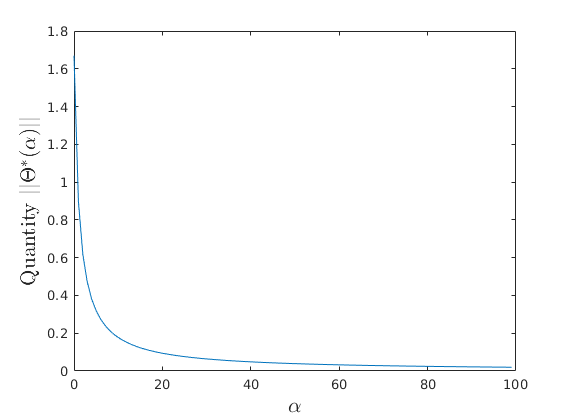
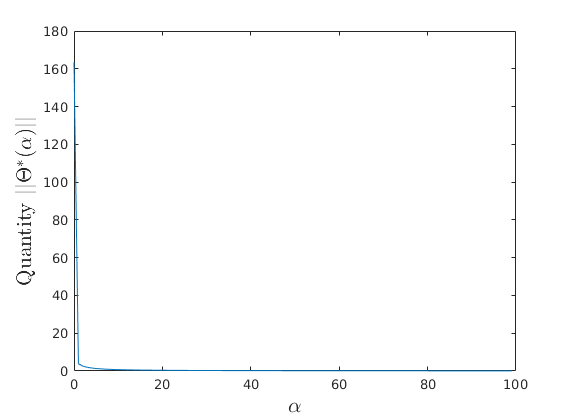
typo

diff --git a/HW2/script/problem4.m b/HW2/script/problem4.m
@@ -1,23 +1,26 @@
 clear;clc;
-n = 10
-p = 8
+n = randi([1,100],1);
+m = randi([1,100],1);
+% n = 10;
+% p = 8;
 X = zeros(n,p);
 cMatrix = eye(n);
-a = 2;
+
 for i = 1:p
     noiseVec = randn(n,1);
     noiseVec = cMatrix*noiseVec;
     X(:,i) = noiseVec;
 end
-num = 100;
 S = 1/n * (X')*X;
+
+num = 100;
 theta_1_norm = zeros(num,1);
 for i = 1 : num
     cvx_begin
         variable theta(p,p) semidefinite
-        minimize(trace(S*theta) - log_det(theta*S) + (i-1)*ones(1,p)*theta*ones(p,1))
+        minimize(trace(S*theta) - log_det(theta*S) + (i-1)*ones(1,p)*abs(theta)*ones(p,1))
     cvx_end
-    theta_1_norm(i) = ones(1,p)*theta*ones(p,1);
+    theta_1_norm(i) = ones(1,p)*abs(theta)*ones(p,1);
 end
 
 a = 0 : num-1;

diff --git a/HW2/script/problem2.m b/HW2/script/problem2.m
@@ -6,7 +6,7 @@ n = 3;
 
 lambda  = zeros(11,1);
 for i = 1:11
-    lambda(i) = (i-1)*10^4;
+    lambda(i) = (i-1)*10^-4;
 end
 
 w_optimal = zeros(11,3);
@@ -23,6 +23,8 @@ end
 expected_return = w_optimal*mu;
 volatility = zeros(11,1);
 for i = 1:11
-    volatility(i)=w_optimal(i,:)*sigma*w_optimal(i,:)';
+    volatility(i)=sqrt(w_optimal(i,:)*sigma*w_optimal(i,:)');
 end
-plot(expected_return,sqrt(volatility))
+plot(expected_return,(volatility))
+xlabel('Portfolio Expected Return', 'fontsize',14)
+ylabel('Portfolio Volatility','fontsize', 14)

diff --git a/HW2/script/problem3.m b/HW2/script/problem3.m
@@ -1,15 +1,17 @@
+clear;clc;
 n = randi([1,100],1);
 m = randi([1,100],1);
-X = randi(m,n);
-y = randi(m,1);
+X = randi([1,100],m,n);
+y = randi([1,100],m,1);
 cvx_begin
     variable x(n)
-    minimize( norm( y-X*x, 2 )^2 )
+    minimize( (norm( y-X*x, 2 )) )
     subject to
         for i = 1:n-1
             x(i) <= x(i+1)
         end
 cvx_end
+solution = cvx_optval^2;
 plot(x)
 xlabel("index i",'fontsize', 16)
 ylabel('Optimal solution element ${\beta_{i}}$','Interpreter','latex','fontsize', 16)

diff --git a/HW2/ELEC5470_HW2.md b/HW2/ELEC5470_HW2.md
@@ -29,6 +29,8 @@ w = x/(ones(1,n)*x)
 
 with answer: $x^* =[0.4085, 0.1671, 0.9226]^T$, $w = [0.2726, 0.1115, 0.6158]^T$
 
+
+
 ### Problem2
 
 $$\begin{array}{ll}
@@ -52,7 +54,7 @@ n = 3;
 
 lambda  = zeros(11,1);
 for i = 1:11
-    lambda(i) = (i-1)*10^4;
+    lambda(i) = (i-1)*10^-4;
 end
 
 w_optimal = zeros(11,3);
@@ -71,10 +73,14 @@ volatility = zeros(11,1);
 for i = 1:11
     volatility(i)=sqrt(w_optimal(i,:)*sigma*w_optimal(i,:)');
 end
-plot(expected_return,volatility)
+plot(expected_return,(volatility))
+xlabel('Portfolio Expected Return', 16)
+ylabel('Portfolio Volatility','Interpreter','latex','fontsize', 16)
 ```
 
-**Figure**
+**Figure****
+
+![problem2](/home/jtangas/Documents/jiawei/04_github/ELEC5470_HW/HW2/script/problem2.png)
 
 ### Problem3
 
@@ -98,86 +104,62 @@ xlabel("index i",'fontsize', 16)
 ylabel('Optimal solution element ${\beta_{i}}$','Interpreter','latex','fontsize', 16)
 ```
 
-For $n=73, m=44$, the optimal solution $\beta^*$ is
+For $n=90, m=39$, the optimal value  is 3.3471e+04
+
+**Figure** of optimal solution $\beta^*$
+
+![problem3](/home/jtangas/Documents/jiawei/04_github/ELEC5470_HW/HW2/script/problem3.png)
+
+### Problem 4
+
+**Code**
 
 ```matlab
-beta =
+clear;clc;
+n = randi([1,100],1);
+m = randi([1,100],1);
+% n = 10;
+% p = 8;
+X = zeros(n,p);
+cMatrix = eye(n);
+a = 2;
+for i = 1:p
+    noiseVec = randn(n,1);
+    noiseVec = cMatrix*noiseVec;
+    X(:,i) = noiseVec;
+end
+num = 100;
+S = 1/n * (X')*X;
+theta_1_norm = zeros(num,1);
+for i = 1 : num
+    cvx_begin
+        variable theta(p,p) semidefinite
+        minimize(trace(S*theta) - log_det(theta*S) + (i-1)*ones(1,p)*abs(theta)*ones(p,1))
+    cvx_end
+    theta_1_norm(i) = ones(1,p)*abs(theta)*ones(p,1);
+end
 
-    0.0003
-    0.0018
-    0.0065
-    0.0065
-    0.0065
-    0.0065
-    0.0065
-    0.0065
-    0.0065
-    0.0065
-    0.0065
-    0.0065
-    0.0065
-    0.0065
-    0.0065
-    0.0065
-    0.0065
-    0.0065
-    0.0065
-    0.0065
-    0.0065
-    0.0065
-    0.0065
-    0.0065
-    0.0065
-    0.0065
-    0.0065
-    0.0065
-    0.0065
-    0.0065
-    0.0065
-    0.0065
-    0.0065
-    0.0065
-    0.0065
-    0.0065
-    0.0065
-    0.0065
-    0.0065
-    0.0065
-    0.0065
-    0.0065
-    0.0065
-    0.0065
-    0.0065
-    0.0065
-    0.0065
-    0.0065
-    0.0065
-    0.0065
-    0.0065
-    0.0065
-    0.0065
-    0.0065
-    0.0065
-    0.0065
-    0.0065
-    0.0065
-    0.0065
-    0.0065
-    0.0065
-    0.0065
-    0.0065
-    0.0065
-    0.0065
-    0.0065
-    0.0065
-    0.0065
-    0.0065
-    0.0130
-    0.0130
-    0.0130
-    0.0130
+a = 0 : num-1;
+plot(a,theta_1_norm);
+xlabel('${\alpha}$','Interpreter','latex','fontsize', 16)
+ylabel('Quantity $||\Theta^*(\alpha)||$','Interpreter','latex','fontsize', 16)
+
 ```
 
-the optimal value is +42.0211
+**Figure on optimal solution**
 
-$||\Theta^*(\alpha)||$
+$\alpha=0$
+
+$\alpha=2$
+
+$\alpha=4$
+
+$\alpha=6$
+
+$\alpha=8$
+
+
+
+**Figure** on quanlity and $\alpha$ 
+
+![problem4_2](/home/jtangas/Documents/jiawei/04_github/ELEC5470_HW/HW2/script/problem4_2.png)
